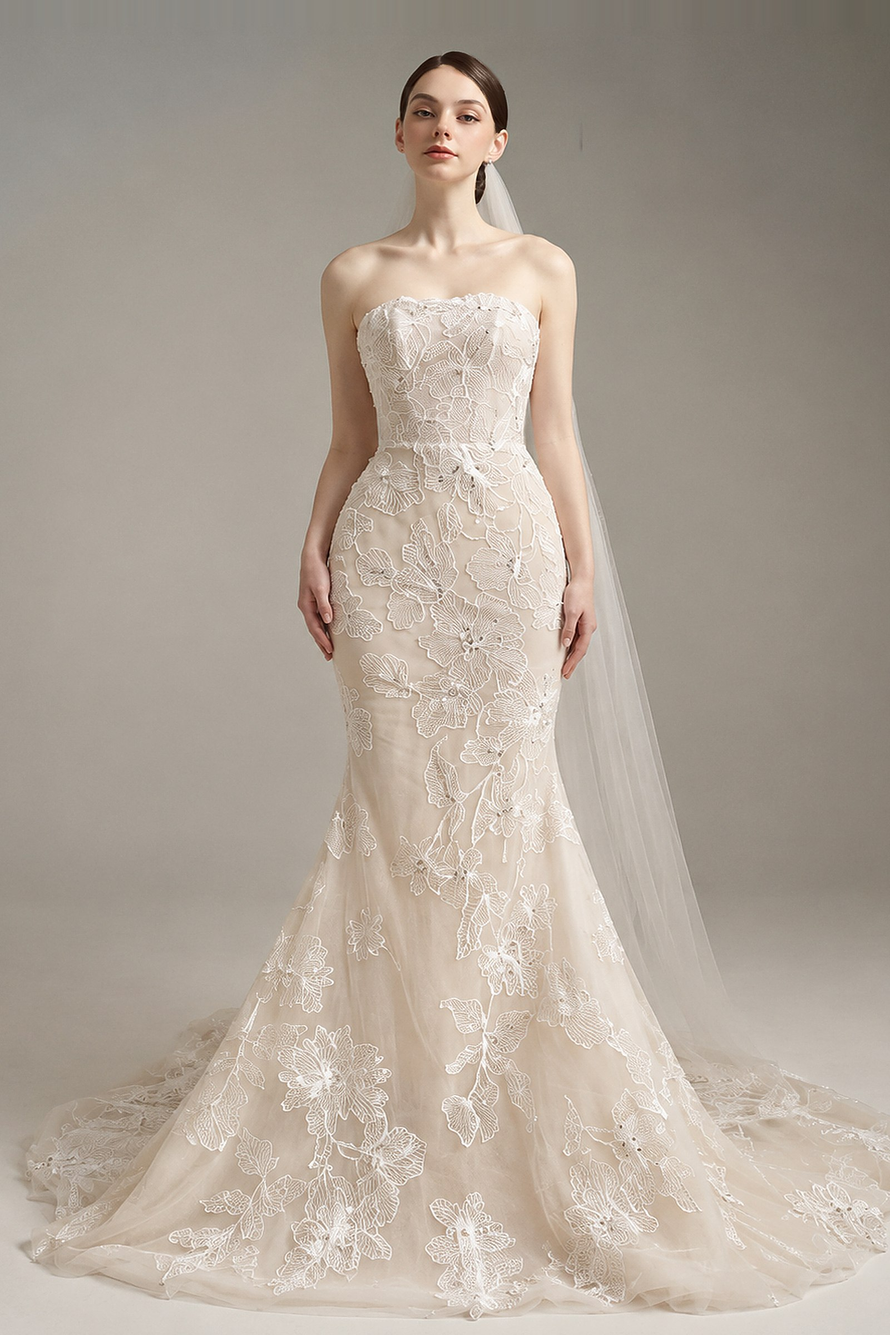
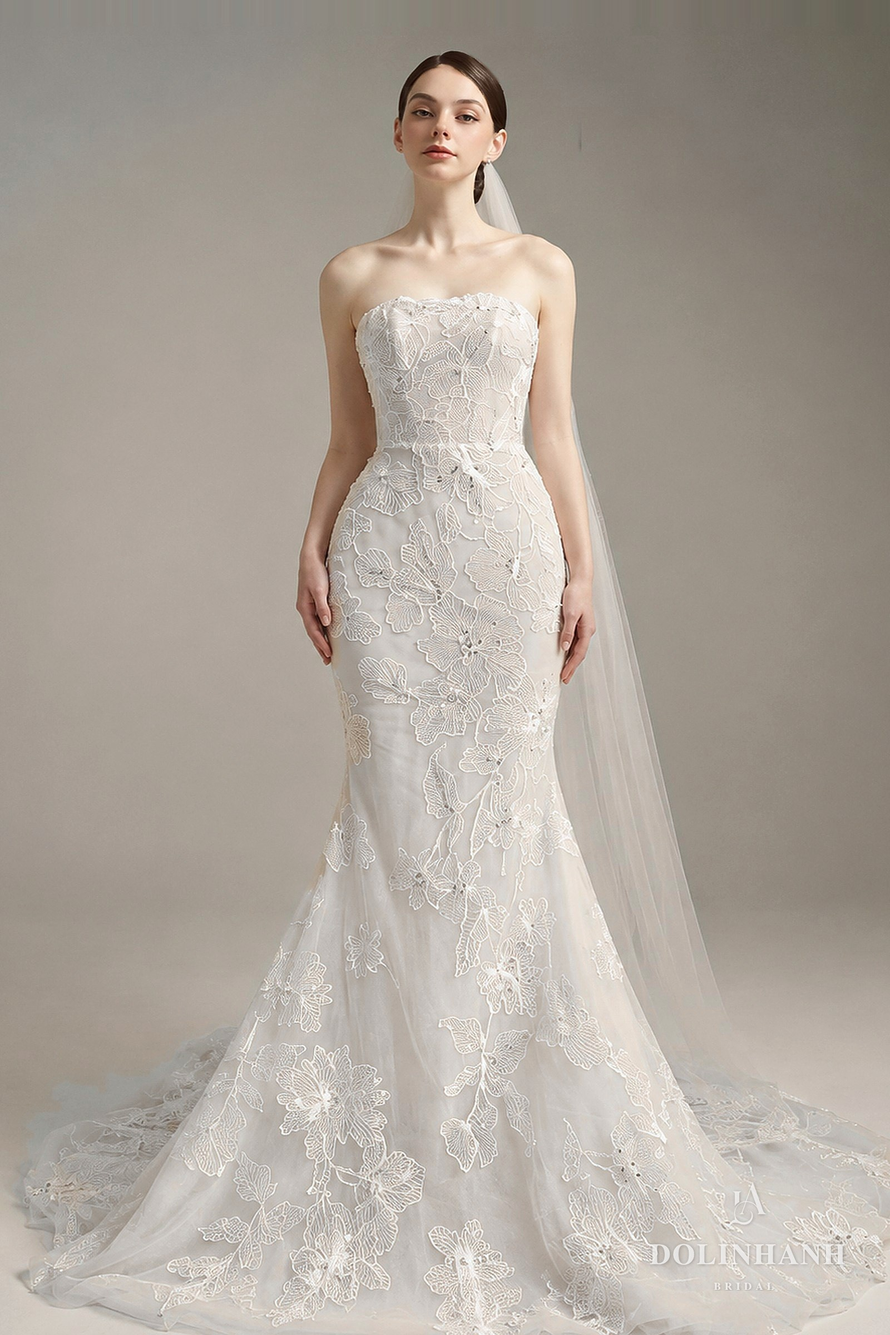
V255: MS 80: dress lining white (was nude)

diff --git a/bo-suu-tap.html b/bo-suu-tap.html
@@ -1148,7 +1148,7 @@ src="https://www.facebook.com/tr?id=1358640082651240&ev=PageView&noscript=1"
         </figure>
         <figure data-dang="mermaid" data-mood="romantic" data-coso="hcm">
           <div class="sl-khung">
-            <div class="sl" data-img="anh/vay/ms80/01.jpg"></div>
+            <div class="sl" data-img="anh/vay/ms80/01.jpg?v=0511"></div>
           </div>
           <figcaption><span class="kind" data-en="Dolinhanh Bridal" data-zh="Dolinhanh Bridal">Dolinhanh Bridal</span><span class="nm">MS 80</span><span class="de" data-en="Beaded lace mermaid" data-zh="钉珠蕾丝鱼尾婚纱">Ren đính kết, đuôi cá</span><span class="gia">US$1,280</span></figcaption>
         </figure>
